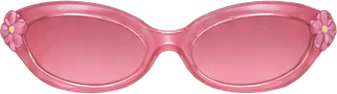
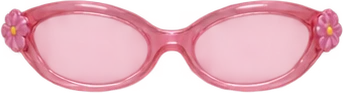
closet: óculos com lente transparente

diff --git a/config/bonequinha-posicoes.ts b/config/bonequinha-posicoes.ts
@@ -5,7 +5,7 @@ export type Pos = [number, number, number, number, number?];
 export const POSICOES: Record<string, Pos> = {
   // acessórios
   a1_0: [78.5, 276.0, 93.6, 223.6],
-  a1_1: [91.0, 126.1, 175.2, 48.9],
+  a1_1: [89.4, 125.6, 178.4, 48.4],
   a1_2: [147.7, 264.5, 64.0, 23.4],
   a1_3_e: [95.2, 195.9, 35.4, 64.5],
   a1_3_d: [227.2, 195.9, 35.4, 64.5],
